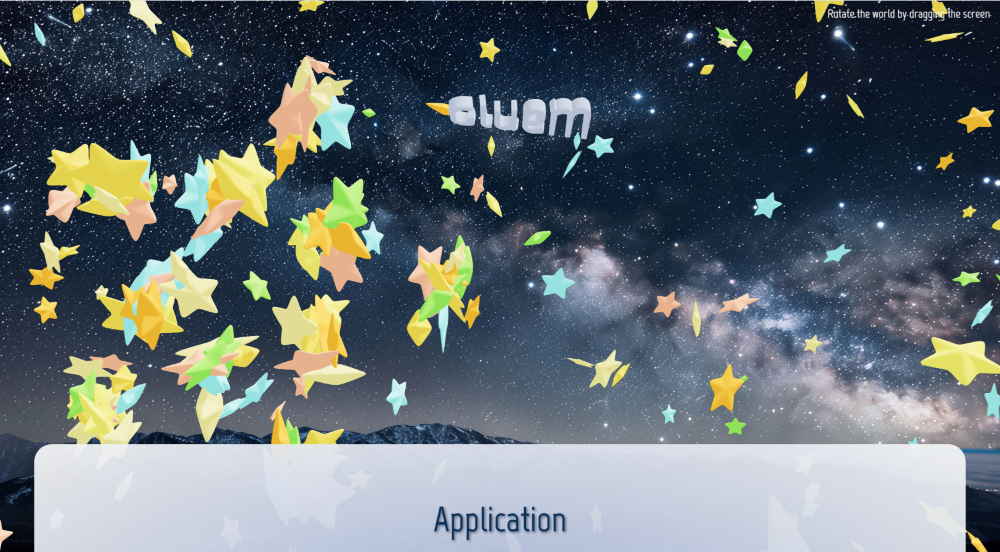
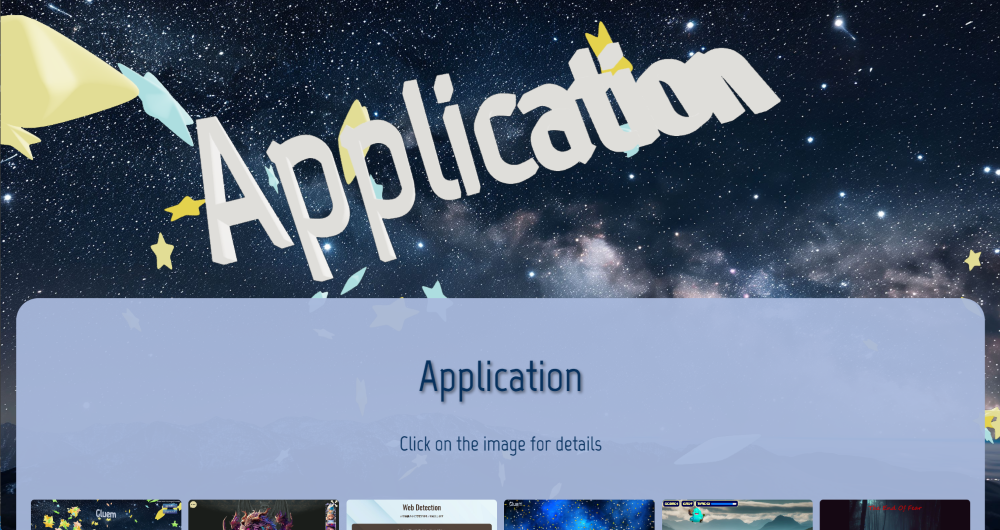
add all

diff --git a/src/components/Stars.vue b/src/components/Stars.vue
@@ -13,8 +13,7 @@ import Config from '@/Config.ts'
 
 // import AppList from '@/components/AppList.vue';
 // import About from '@/components/About.vue';
-
-import BtnMenu from '@/components/flame/BtnMenu.vue';
+// import BtnMenu from '@/components/flame/BtnMenu.vue';
 
 const { nodes } = await useGLTF('model/star.glb', { draco: true })
 
@@ -155,12 +154,12 @@ const handleScroll = () => {
   }
 
 
-  console.log('window.scrollY', window.scrollY, 'progress', progress)
+  // console.log('window.scrollY', window.scrollY, 'progress', progress)
   // console.log('cameraPosition', cameraRef.value.position, 'targetPosition', targetPosition, 'targetLookAt', targetLookAt)
 
   cameraRef.value.position.copy(targetPosition);
   cameraRef.value.lookAt(targetLookAt);
-  titleRef.value.instance.position.copy(targetTitle)
+  titleRef.value?.instance.position.copy(targetTitle)
 
 };
 
@@ -238,7 +237,6 @@ function clickStar(ray: Intersection) {
 
     const index = count % (starShapeVertices.length / 3);
 
-    //各星の位置を更新
     star.position.x = randomNum(ray.point.x - starRandom, ray.point.x + starRandom) + starShapeVertices[index * 3];
     star.position.y = randomNum(ray.point.y - starRandom, ray.point.y + starRandom) + starShapeVertices[index * 3 + 1];
     star.position.z = randomNum(ray.point.z - starRandom, ray.point.z + starRandom) + starShapeVertices[index * 3 + 2];
@@ -294,21 +292,21 @@ onUnmounted(() => {
 
       <Suspense>
 
-        <Text3D ref="titleRef" :text="Config.title" font="font/Marvel_Bold.json" :size="1" :position="initTitlePosition"
-          :rotation="titleRotation">
+        <Text3D ref="titleRef" :text="Config.title" font="font/Marvel_Regular.json" :size="1"
+          :position="initTitlePosition" :rotation="titleRotation">
           <MeshWobbleMaterial :color="0xC7AC70" :speed="0.5" :factor="0.5" />
         </Text3D>
       </Suspense>
 
       <Suspense>
-        <Text3D :text="Config.mainMenu1" font="font/Marvel_Bold.json" :size="1" :position="AppTitlePosition"
+        <Text3D :text="Config.mainMenu1" font="font/Marvel_Regular.json" :size="1" :position="AppTitlePosition"
           :rotation="[0.7, 0, 0.3]">
           <MeshWobbleMaterial :color="0xfbf5e9" :speed="0.5" :factor="0.5" />
         </Text3D>
       </Suspense>
 
       <Suspense>
-        <Text3D :text="Config.mainMenu2" font="font/Marvel_Bold.json" :size="1" :position="AboutTitlePosition"
+        <Text3D :text="Config.mainMenu2" font="font/Marvel_Regular.json" :size="1" :position="AboutTitlePosition"
           :rotation="[1.6, 3.2, -0.7]">
           <MeshWobbleMaterial :color="0xfbf5e9" :speed="0.5" :factor="0.5" />
         </Text3D>
@@ -333,6 +331,7 @@ onUnmounted(() => {
     </TresCanvas>
 
     <!-- <div v-if="starsVisible" class="message">{{ Config.msgMain1 }}</div> -->
+
     <!-- <div class="menu">
 
       <BtnMenu class="menu1" :inside="Config.mainMenu1" />
@@ -343,7 +342,6 @@ onUnmounted(() => {
     <div v-if="startAnimation" class="enter">{{ Config.msgEnter }}</div>
 
   </div>
-
 </template>
 
 <style scoped>

diff --git a/src/components/AppDetail.vue b/src/components/AppDetail.vue
@@ -70,6 +70,7 @@ watch(() => props.app, () => {
       <div class="titleFlame">
         <div class="title"> {{ selectedApp.id }} </div>
         <div class="intro"> {{ selectedApp.introduction }} </div>
+        <div v-if="selectedApp.id == Config.appSeventh" class="caution"> {{ selectedApp.caution }} </div>
       </div>
 
       <!-- <hr size="1" color="#A8B8DC" class="titleLine"> -->
@@ -82,10 +83,10 @@ watch(() => props.app, () => {
           <FlmItem1 class="midTitle" :inside="'Points'" />
 
           <!-- Point1 -->
-          <FlexPoint class="flexPoint" :order="'1'" :point1="selectedApp.points[0]"
-            :screen="selectedApp.screenShot[0]" />
+          <FlexPoint class="flexPoint" :order="'1'" :point1="selectedApp.points[0]" :screen="selectedApp.screenShot[0]" />
           <!-- Point2 -->
-          <div v-if="selectedApp.id == Config.appPortfolio || selectedApp.id == Config.appStarry">
+          <!-- <div v-if="selectedApp.id == Config.appPortfolio || selectedApp.id == Config.appStarry"> -->
+          <div v-if="selectedApp.id == Config.appStarry">
             <FlexPoint class="flexPoint" :point1="selectedApp.points[1]" :point2="selectedApp.points[2]"
               :screen="selectedApp.screenShot[1]" />
           </div>
@@ -196,7 +197,7 @@ watch(() => props.app, () => {
 }
 
 .titleFlame {
-  margin: 0 auto;
+  margin: 0 auto 30px;
   text-align: center;
 }
 
@@ -208,7 +209,11 @@ watch(() => props.app, () => {
 }
 
 .intro {
-  margin-top: 30px;
+  margin: 30px 10px 0 ;
+}
+
+.caution {
+  margin: 10px 10px 0 ;
 }
 
 hr {
@@ -228,18 +233,12 @@ hr {
   margin: 0 auto;
 }
 
-@media screen and (max-width: 800px) {
-  .midTitle {
-    /* margin: auto; */
-  }
-}
-
 
 .secEnvTool {
   margin-top: 80px;
   display: flex;
   /* gap: 5%; */
-  gap: 30px;
+  gap: 20px;
 }
 
 @media screen and (max-width: 800px) {

diff --git a/src/components/flame/FlmItem1.vue b/src/components/flame/FlmItem1.vue
@@ -14,7 +14,8 @@ const props = defineProps({
 <style scoped>
 .flame {
   width: fit-content;
-  min-width: 120px;
+  /* min-width: 120px; */
+  min-width: 100px;
   background: #D6A254;
   border-radius: 5px;
   text-align: center;
@@ -28,12 +29,14 @@ const props = defineProps({
 
 @media screen and (max-width: 800px) {
   .flame {
-    padding: 4px 20px;
+    /* padding: 4px 20px; */
+    padding: 4px 10px;
     width: auto;
 }
 
   .text {
     font-size: 36px;
+    /* font-size: 30px; */
   }
 
 }

diff --git a/src/class/Application.ts b/src/class/Application.ts
@@ -8,6 +8,7 @@ export interface Point {
 export default class Application {
   id: string;
   introduction: string;
+  caution: string;
   thumbnail: string;
   points: Point[];
   screenShot: string[];
@@ -19,6 +20,7 @@ export default class Application {
   constructor(data: Application) {
     this.id = data.id;
     this.introduction = data.introduction;
+    this.caution = data.caution;
     this.thumbnail = data.thumbnail;
     this.points = data.points;
     this.screenShot = data.screenShot;

diff --git a/src/style.css b/src/style.css
@@ -19,7 +19,9 @@
 }
 
 :root {
-    font-family: "Meiryo";
+    /* font-family: "Meiryo"; */
+    font-family: "MPLUS1p";
+    /* font-family: "BIZUDPGothic"; */
     color: #F5F5F5;
 }
 
